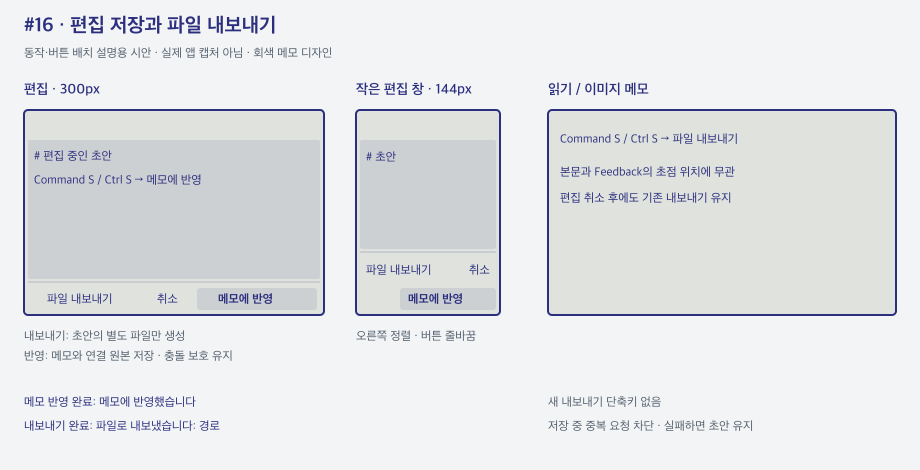
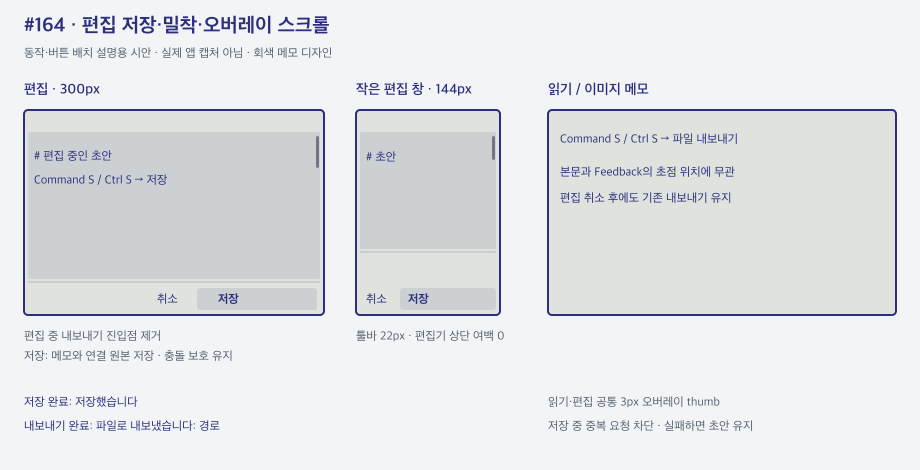
편집 저장 동작과 밀착 배치 및 오버레이 스크롤 통일

diff --git a/ui/overlay-scrollbar.js b/ui/overlay-scrollbar.js
@@ -9,9 +9,11 @@ export function scrollGeometry(view, total, offset) {
 export function installOverlayScrollbar(doc = document) {
   const viewport = doc.getElementById('viewport');
   const bar = doc.getElementById('memo-scrollbar');
+  const editor = doc.getElementById('markdown');
+  const scrollTarget = () => doc.body.classList.contains('editing') && editor ? editor : viewport;
   if (!viewport || !bar) return;
   let geometry, timer, frame, drag;
-  const enabled = () => !['editing', 'image-note', 'folded', 'toolbar-collapsed'].some(name => doc.body.classList.contains(name));
+  const enabled = () => !['image-note', 'folded', 'toolbar-collapsed'].some(name => doc.body.classList.contains(name));
   function reveal() {
     bar.classList.add('scroll-visible');
     clearTimeout(timer);
@@ -19,37 +21,48 @@ export function installOverlayScrollbar(doc = document) {
   }
   function update() {
     frame = null;
-    geometry = scrollGeometry(viewport.clientHeight, viewport.scrollHeight, viewport.scrollTop);
+    const target = scrollTarget();
+    if (drag && (drag.target !== target || !enabled())) finish();
+    geometry = scrollGeometry(target.clientHeight, target.scrollHeight, target.scrollTop);
     const wasHidden = bar.hidden;
-    bar.hidden = !enabled() || geometry.range <= 1 || viewport.clientHeight < 8;
-    bar.style.top = `${viewport.offsetTop + 2}px`;
-    bar.style.height = `${Math.max(0, viewport.clientHeight - 4)}px`;
+    bar.hidden = !enabled() || geometry.range <= 1 || target.clientHeight < 8;
+    bar.style.top = `${viewport.offsetTop + target.getBoundingClientRect().top - viewport.getBoundingClientRect().top + 2}px`;
+    bar.style.height = `${Math.max(0, target.clientHeight - 4)}px`;
     bar.style.setProperty('--thumb-size', `${geometry.size}px`);
     bar.style.setProperty('--thumb-top', `${geometry.top}px`);
     bar.setAttribute('aria-valuemax', String(Math.round(geometry.range)));
-    bar.setAttribute('aria-valuenow', String(Math.round(viewport.scrollTop)));
+    bar.setAttribute('aria-valuenow', String(Math.round(target.scrollTop)));
+    bar.setAttribute('aria-controls', target.id);
+    bar.setAttribute('aria-label', target === editor ? '편집기 세로 스크롤' : '메모 세로 스크롤');
     if (wasHidden && !bar.hidden) reveal();
   }
   function schedule() { if (frame == null) frame = requestAnimationFrame(update); }
-  viewport.addEventListener('scroll', () => { schedule(); reveal(); }, { passive: true });
+  for (const target of [viewport, editor].filter(Boolean)) {
+    target.addEventListener('scroll', () => { schedule(); reveal(); }, { passive: true });
+    target.addEventListener('input', schedule);
+  }
+  doc.addEventListener('selectionchange', schedule);
   // mousedown must not bubble into the application's native note-drag handler.
   bar.addEventListener('mousedown', event => event.stopPropagation());
   bar.addEventListener('pointerdown', event => {
     if (event.button !== 0) return;
     event.preventDefault(); event.stopPropagation();
     update();
+    const target = scrollTarget();
+    if (bar.hidden) return;
     const local = event.clientY - bar.getBoundingClientRect().top;
     if (local < geometry.top || local > geometry.top + geometry.size) {
-      viewport.scrollTop = Math.max(0, Math.min(geometry.range, (local - geometry.size / 2) / (geometry.travel || 1) * geometry.range));
+      target.scrollTop = Math.max(0, Math.min(geometry.range, (local - geometry.size / 2) / (geometry.travel || 1) * geometry.range));
     }
-    drag = { y: event.clientY, offset: viewport.scrollTop, range: geometry.range, travel: geometry.travel };
+    drag = { target, y: event.clientY, offset: target.scrollTop, range: geometry.range, travel: geometry.travel };
     bar.setPointerCapture(event.pointerId);
     bar.classList.add('scroll-dragging');
     reveal();
   });
   bar.addEventListener('pointermove', event => {
     if (!drag) return;
-    viewport.scrollTop = drag.offset + (event.clientY - drag.y) * drag.range / (drag.travel || 1);
+    if (drag.target !== scrollTarget()) { finish(); return; }
+    drag.target.scrollTop = drag.offset + (event.clientY - drag.y) * drag.range / (drag.travel || 1);
   });
   function finish() { drag = null; bar.classList.remove('scroll-dragging'); reveal(); }
   bar.addEventListener('lostpointercapture', finish);
@@ -57,20 +70,24 @@ export function installOverlayScrollbar(doc = document) {
   bar.addEventListener('pointercancel', finish);
   bar.addEventListener('keydown', event => {
     if (event.altKey || event.ctrlKey || event.metaKey || event.shiftKey) return;
-    const page = viewport.clientHeight * .9;
-    const destinations = { ArrowDown: viewport.scrollTop + 40, ArrowUp: viewport.scrollTop - 40, PageDown: viewport.scrollTop + page, PageUp: viewport.scrollTop - page, Home: 0, End: viewport.scrollHeight };
+    const target = scrollTarget();
+    const page = target.clientHeight * .9;
+    const destinations = { ArrowDown: target.scrollTop + 40, ArrowUp: target.scrollTop - 40, PageDown: target.scrollTop + page, PageUp: target.scrollTop - page, Home: 0, End: target.scrollHeight };
     if (!(event.key in destinations)) return;
     event.preventDefault(); event.stopPropagation();
-    viewport.scrollTop = destinations[event.key]; reveal();
+    target.scrollTop = destinations[event.key]; reveal();
   });
   bar.addEventListener('wheel', event => {
     // Wheel input over the overlay still belongs to the native scroll container.
     if (event.ctrlKey) return;
-    const unit = event.deltaMode === 1 ? 16 : event.deltaMode === 2 ? viewport.clientHeight : 1;
-    viewport.scrollTop += event.deltaY * unit;
+    const target = scrollTarget();
+    const unit = event.deltaMode === 1 ? 16 : event.deltaMode === 2 ? target.clientHeight : 1;
+    target.scrollTop += event.deltaY * unit;
     event.preventDefault();
   }, { passive: false });
-  new ResizeObserver(schedule).observe(viewport);
+  const resize = new ResizeObserver(schedule);
+  resize.observe(viewport);
+  if (editor) resize.observe(editor);
   new MutationObserver(schedule).observe(doc.getElementById('content'), { childList: true, subtree: true, characterData: true });
   new MutationObserver(schedule).observe(doc.body, { attributes: true, attributeFilter: ['class'] });
   new MutationObserver(schedule).observe(doc.documentElement, { attributes: true, attributeFilter: ['style'] });

diff --git a/ui/app.js b/ui/app.js
@@ -88,6 +88,7 @@ function endEditing(flow) {
   contentAction();
   editing = false;
   document.body.classList.toggle('editing', false);
+  $('export').hidden = false;
   $('editor').hidden = true;
   $('content').hidden = false;
   $('copy').disabled = false;
@@ -108,6 +109,7 @@ function beginEditing() {
   editRevision = latestNote.revision;
   $('markdown').value = latestNote.markdown;
   $('content').hidden = true;
+  $('export').hidden = true;
   $('editor').hidden = false;
   $('copy').disabled = true;
   $('edit').disabled = true;
@@ -135,7 +137,7 @@ async function save() {
       displayedHtml = $('content').innerHTML;
       revision = latestNote.revision;
       endEditing(flow);
-      notify('메모에 반영했습니다');
+      notify('저장했습니다');
       flow.frame?.();
     });
   } catch (error) { failure(error); }
@@ -163,7 +165,7 @@ function failure(error) { notify(String(error), 'error', editing); }
 async function publishFeedback() {
   if (!memoVisible) return;
   if (publishing) { publishAgain = true; return; }
-  const view = feedbackView({ editing, saving, exporting, acknowledging, highlightRevision, notice, sourcePath: latestNote?.source_path, color: latestNote?.color });
+  const view = feedbackView({ editing, saving, exporting, acknowledging, highlightRevision, notice, color: latestNote?.color });
   const signature = JSON.stringify({ folded, view });
   if (signature === feedbackSignature) return;
   publishing = true;
@@ -172,13 +174,13 @@ async function publishFeedback() {
   finally { publishing = false; if (publishAgain) { publishAgain = false; publishFeedback(); } }
 }
 async function exportNote() {
-  if (!latestNote || exporting || saving) return;
+  if (!latestNote || editing || exporting || saving) return;
   contentAction();
   exporting = true;
   publishFeedback();
   $('export').disabled = true;
   try {
-    const path = await invoke('export_note', { markdown: editing ? $('markdown').value : null });
+    const path = await invoke('export_note', { markdown: null });
     if (path) {
       notify(`파일로 내보냈습니다: ${path}`);
     }

diff --git a/ui/overlay-scrollbar.css b/ui/overlay-scrollbar.css
@@ -1,4 +1,4 @@
-/* Text reading surface only: no dedicated scrollbar column or separator strip. */
+/* Text surfaces: no dedicated scrollbar column or separator strip. */
 body:not(.image-note):not(.editing):not(.toolbar-collapsed) #controls { flex-basis: 22px; height: 22px; }
 body:not(.image-note):not(.editing):not(.folded) #viewport { padding-top: 0; scrollbar-width: none; }
 body:not(.image-note):not(.editing):not(.folded) #viewport::-webkit-scrollbar { width: 0; height: 0; }
@@ -24,4 +24,13 @@ body:not(.image-note):not(.editing):not(.folded) #viewport::-webkit-scrollbar { 
   #memo-scrollbar { display: none; }
   body:not(.image-note):not(.editing):not(.folded) #viewport { scrollbar-width: auto; }
   body:not(.image-note):not(.editing):not(.folded) #viewport::-webkit-scrollbar { width: auto; height: auto; }
+}
+
+/* The textarea keeps native input/caret scrolling; only its scrollbar is replaced. */
+body.editing #markdown { scrollbar-width: none; }
+body.editing #markdown::-webkit-scrollbar { width: 0; height: 0; }
+body.editing:has(#markdown:focus-visible) #memo-scrollbar { opacity: 1; }
+@media (forced-colors: active) {
+  body.editing #markdown { scrollbar-width: auto; }
+  body.editing #markdown::-webkit-scrollbar { width: auto; height: auto; }
 }

diff --git a/ui/feedback.js b/ui/feedback.js
@@ -33,7 +33,7 @@ async function refresh() {
           button.addEventListener('click', () => invoke('feedback_action', { action: item.id, revision: renderedRevision }).catch(report));
           actions.appendChild(button);
         }
-        button.title = item.id === 'save' ? `메모에 반영 · ${isMac ? 'Command S' : 'Ctrl S'}` : item.label;
+        button.title = item.id === 'save' ? `저장 · ${isMac ? 'Command S' : 'Ctrl S'}` : item.label;
         button.setAttribute('aria-label', button.title);
         button.textContent = item.label; button.disabled = item.disabled; button.classList.toggle('primary', !!item.primary);
       }

diff --git a/ui/style.css b/ui/style.css
@@ -178,3 +178,7 @@ body.toolbar-collapsed #controls { align-items: flex-start; }
 #controls button:is(:hover, [data-pointer-over]):not(:disabled) {
   background: color-mix(in srgb, var(--foreground) 16%, var(--background));
 }
+
+/* Editing shares the text reading row's compact edge; image chrome stays 30px. */
+body.editing:not(.image-note):not(.toolbar-collapsed) #controls { flex-basis: 22px; height: 22px; }
+body.editing:not(.image-note):not(.folded) #viewport { padding-top: 0; }

diff --git a/docs/verification/issue164-editor-save-layout.md b/docs/verification/issue164-editor-save-layout.md
@@ -1,0 +1,57 @@
+# #164 편집 저장·툴바 여백 검증
+
+2026-11-14 (Asia/Seoul). [이슈 #164](https://github.com/egoing/agent-gibbon/issues/164) · [Draft PR #165](https://github.com/egoing/agent-gibbon/pull/165).
+
+## 변경과 출처
+
+- root `/Users/egoinglee/.codex/worktrees/21c1/agent-gibbon`, branch `codex/editor-save-layout`, 기준 main `53ab3a7`, 계획 커밋 `d685c77` 위의 미커밋 구현.
+- `npm run dev:info`: instance `dev-04a8bd2447daf04ae0f34710`, binary `/Users/egoinglee/.codex/worktrees/21c1/agent-gibbon/src-tauri/target/debug/agent-gibbon`.
+- Node 24.21.0, Rust 1.91.1, macOS arm64. #159의 편집 높이 변경은 포함하지 않는다.
+
+Feedback은 취소·저장 두 버튼으로 바꾸고 저장 중/완료 문구도 통일했다. 편집 중 상단 내보내기를 hidden 처리하며 exportNote 진입에서 편집 상태를 확인해 오래된 Feedback 요청까지 무시한다. 읽기·이미지 export는 기존 null markdown 경로를 유지한다.
+
+녹색 표시 여백은 공통 30px 툴바 행의 버튼 아래 8px와 viewport 상단 패딩 3px다. 편집 상태에서만 22px 행·상단 패딩 0으로 변경한다. 버튼 크기·가장자리·내부 입력 패딩과 native 드래그 처리 코드는 유지한다.
+
+## 실행 결과
+
+- `npm run test:ui`: 196개 통과. 저장 단축키, revision 충돌, 읽기/이미지 내보내기, stale Feedback 및 숨긴 toolbar 내보내기 방어, 편집 툴바 빈 공간 드래그를 포함한다.
+- `PLAYWRIGHT_MODULE=/tmp/gibbon-playwright/node_modules/playwright/index.mjs node scripts/editor-save-smoke.mjs`: Chromium 158.0.8127.18 통과. Feedback 144/300px의 두 버튼·Tab·접근성 이름·단축키·오류 후 focus, 편집 144/300/600px의 toolbar 22px 및 textarea top과 row bottom 간격 0px, 이미지 행 30px 유지 확인. IPC mock 검사다. 캡처 `/tmp/gibbon16-browser/editor-{144,300,600}.png`.
+- `cargo test --manifest-path src-tauri/Cargo.toml`: 222개 통과.
+- `npm run dev:build`, `cargo fmt --manifest-path src-tauri/Cargo.toml -- --check`, `git diff --check` 통과.
+- SVG를 `rsvg-convert`로 PNG 렌더링하고 시안 및 브라우저 캡처를 육안 확인했다.
+
+## 실제 앱 확인
+
+팀장 GUI 슬롯 승인 후 전용 CLI로 `issue164-21c1`과 `/tmp/gibbon164-note.md`만 생성했다. inspect의 ok·instance·메모 ID·고유 본문을 대조했다. 실제 프로세스 PID 99402의 정확한 binary 경로를 확인하고 AX/CG에서 native title `Agent Gibbon [DEV codex/editor-save-layout · 04a8bd24] — issue164-21c1`, 본문 window 71413·Feedback 71421을 특정했다.
+
+Orca는 runtime metadata 부재로 사용 불가여서 저장소의 PID-bound AX helper `scripts/design-system-ax.swift`를 사용했다. 읽기 AX tree는 숨긴 요소를 포함하므로 내보내기 제거의 시각 판단에는 사용하지 않았다.
+
+1. AX 메모 편집 버튼 실행 후 [실제 창 캡처](assets/issue164-editor-native.png)를 `screencapture -x -l 71413`으로 얻고 육안 확인했다. 본문+연결 Feedback이 포함되며 내보내기 아이콘 없음, 밀착 편집기, 취소·저장 두 버튼을 확인했다.
+2. AX draft로 `issue164-21c1 저장된 본문`을 입력하고 Feedback `저장 · Command S` 버튼 실행. inspect revision 1→2, 저장했습니다 안내와 연결 파일의 동일 본문 확인.
+3. 다시 편집하여 `issue164 충돌 초안` 입력 후 외부에서 전용 원본 파일 변경. 같은 저장 버튼 실행 시 원본 외부 변경 오류, 메모 revision 2 유지·외부 파일 보존 및 AX textarea의 초안 유지 확인.
+4. 취소 후 개발 CLI close로 검증 메모·Feedback 숨김을 확인하고 정확한 PID 99402만 종료했다. 팀장에게 GUI 슬롯 해제를 보고했다. 다른 인스턴스와 사용자 메모는 변경하지 않았다. 입력은 AX만 사용했고 포인터·전역 키·시스템 볼륨은 변경하지 않았다.
+
+## 한계
+
+실제 키보드 Cmd/Ctrl+S·실제 toolbar drag·읽기/이미지 native export 완성은 이번에 재실행하지 않았다. 해당 동작의 자동 회귀검사와 실제 저장 버튼·원본 충돌 검증을 구분한다. Intel·Windows GUI, 전체 플랫폼 CI·설치·배포는 미실행이다. 최종 구현 커밋·push·병합은 승인 전이며 Draft PR에는 계획 커밋만 있다.
+
+Conf 5: macOS 화면·저장 버튼·원본 충돌 / Conf 3~4: 나머지 자동 검사. Risk Low: 국소 UI·진입 제한이며 저장 백엔드는 변경하지 않음.
+
+## 편집 스크롤바 후속
+
+사용자 후속 요청에 따라 같은 작업에서 편집 textarea의 스크롤바를 읽기 overlay로 통일했다. 공통 컨트롤의 대상만 바꾸며 textarea 기본 입력·커서·선택·scrollTop을 유지한다. input·selectionchange·resize를 반영하고 전환/접힘 시 기존 드래그를 종료한다. 접근성 제어 대상·명칭도 textarea/viewport에 맞춰 바뀐다. 네이티브 scrollbar 열을 제거하고 forced-colors에서는 복귀한다.
+
+- 위 Chromium 스크립트를 확장해 144/300/600px 각각 긴 글 입력, Control+End 커서 끝 이동·추가 입력과 selectionEnd, scrollbar Home·thumb drag로 textarea만 이동, 짧은 글에서 숨김, 읽기로 전환 후 viewport End 이동, forced-colors의 scrollbar 숨김·textarea native 복귀를 검사했다. 출력 `/tmp/gibbon164-scroll`, 실제 pointer drag는 Chromium에서 실행했다.
+- UI 196개 및 수정 모듈 syntax 검사 통과. Rust 코드는 변경하지 않았으며 앞선 222개 결과는 후속 JS 이전 결과다. 개발 빌드 재실행 통과(6.06초). 최종 드래그 종료 가드 보강은 이후 브라우저 재검증으로 확인했다.
+- 실제 앱을 다시 시작한 PID 5660의 정확한 binary 경로와 `dev-04a8bd2447daf04ae0f34710` inspect를 재대조했다. 전용 파일 `/tmp/gibbon164-scroll-note.md`, 메모 `issue164-scroll-21c1`, 고유 본문 `issue164-21c1 편집 스크롤 검증`, native title `Agent Gibbon [DEV codex/editor-save-layout · 04a8bd24] — issue164-scroll-21c1`과 CG window 71429를 확인했다.
+- PID-bound AX helper로 편집 진입, AX의 `편집기 세로 스크롤` 노출을 확인했다. [실제 편집 화면](assets/issue164-editor-scroll-native.png)은 window 71429의 screencapture이며 넓은 native scrollbar 열이 제거된 상태를 육안 확인했다. 비활성 fade 상태여서 thumb는 보이지 않는 캡처다. thumb의 표시·드래그와 입력/커서 추적은 Chromium 증거로 구분한다.
+- AX로 짧은 글을 넣고 취소한 뒤 전용 CLI close 및 이번 PID 5660만 종료하고 GUI 슬롯을 반납했다. 실제 물리 입력·native thumb 드래그·IME 조합 입력은 미실행이다. Windows/Intel GUI 및 전체 플랫폼 CI도 미실행이다.
+- SVG/PNG의 편집기 thumb 시안을 갱신·렌더링·육안 확인했다. 최종 제품 변경은 계속 미커밋으로 보존한다.
+
+후속 스크롤 동작 Conf 4(Chromium), 실제 native 화면 Conf 5 / Risk Low.
+
+## 기본 설명 제거 후속
+
+사용자 요청으로 편집 시 `원본 파일에 저장` 기본 안내를 제거했다. 연결 파일 유무에 관계없이 기본 Feedback은 취소·저장 버튼만 있으며 실제 오류·저장 결과는 유지한다. 최종 개발 빌드 통과(5.25초), UI 197개 통과(연결 메모 기본 message 빈 값 및 실제 notice 유지 검사 추가). 시안은 이미 버튼만 표시하므로 추가 형상 변경은 없고 디자인 시스템에 명시했다.
+
+위 native 캡처 두 개는 이 안내 제거 **이전**의 실행 증거다. 안내 제거 후 native 화면을 다시 캡처한 것으로 간주하지 않는다. 이번 최종 기본 안내는 UI 검사와 source 검토로 확인했다.

diff --git a/.agents/skills/agent-gibbon/SKILL.md b/.agents/skills/agent-gibbon/SKILL.md
@@ -81,7 +81,7 @@ MD
 
 ## 파일 연결과 저장
 
-- `--file 경로`는 원본 Markdown 파일을 연결한다. 설치 앱에는 접근 가능한 파일의 절대 경로를 전달한다. 연필 버튼의 메모에 반영을 누르면 메모와 연결한 파일을 함께 갱신한다.
+- `--file 경로`는 원본 Markdown 파일을 연결한다. 설치 앱에는 접근 가능한 파일의 절대 경로를 전달한다. 연필 버튼의 저장을 누르면 메모와 연결한 파일을 함께 갱신한다.
 - `--markdown` 또는 `--file -`로 본문을 교체하면 기존 원본 연결을 해제한다. 제목·상태·색상만 변경하면 연결을 유지한다. `--markdown`과 `--file`은 함께 사용하지 않는다.
 - 외부 파일 변경을 자동 감시하지 않는다. `update --id ID --file 경로`로 다시 읽는다. 원본 파일을 다른 도구와 동시에 편집하지 않는다.
 - 사용자 편집 중 내용이 갱신되거나 원본 파일이 바뀌면 저장 충돌이 발생할 수 있다. 초안을 보존하고 최신 내용을 확인한 뒤 다시 편집한다.
@@ -92,7 +92,7 @@ MD
 
 - 메모 본문을 드래그해 이동하고 가장자리로 크기를 조절한다. 직접 기하학 조작은 자동 배치에서 제외하며 후속 내용 갱신·편집 등은 다시 포함한다. 내용 갱신만으로 현재 위치·크기를 바꾸지는 않는다.
 - 작은 메모에서 Toolbar 기능이 모두 들어가지 않으면 이전 도구·다음 도구 버튼으로 넘긴다. 키보드 Tab·Shift+Tab으로 이동한 기능은 자동으로 표시된다.
-- 글자 크기 버튼으로 크기를 바꾸고, 연필로 원문을 편집한다. 편집 반영은 메모에 반영 버튼 또는 편집 중 ⌘S/Ctrl+S, 파일 내보내기는 읽기·이미지 메모의 ⌘S/Ctrl+S 또는 툴바 파일 내보내기 버튼(편집 중에는 Action Bar의 파일 내보내기), 편집 취소는 Escape이며 복사 버튼으로 본문을 복사한다.
+- 글자 크기 버튼으로 크기를 바꾸고, 연필로 원문을 편집한다. 편집 반영은 저장 버튼 또는 편집 중 ⌘S/Ctrl+S, 파일 내보내기는 읽기·이미지 메모의 ⌘S/Ctrl+S 또는 읽기·이미지 메모의 툴바 파일 내보내기 버튼(편집 중 내보내기는 제공하지 않음), 편집 취소는 Escape이며 복사 버튼으로 본문을 복사한다.
 - 좌우 화살표 또는 Option + 포인터 접촉으로 화면 반대편에 옮긴다. Control + 포인터 접촉으로 접거나 펼친다. 전체 창 접어두기/복원은 macOS에서 Control + Option + Command, Windows에서 Ctrl + Alt + Win 세 키만 누르고 모두 놓으면 실행한다. 일반 키·클릭이 섞이면 실행하지 않는다.
 - 메뉴 막대의 개별 메모를 선택해 숨긴 메모를 복원할 수 있다.
 - 메뉴 막대에서 숨긴 메모를 열면 자동 배치 대상 전체를 오른쪽 하단부터 위·왼쪽 열 순서로 재계산합니다. 제외된 창은 장애물로 보존합니다. 이미 보이는 메모의 다시 열기는 전체 배치를 바꾸지 않습니다.

diff --git a/README.md b/README.md
@@ -75,7 +75,7 @@
 
 - 글자 크기 버튼을 누르면 **12 → 14 → 16 → 18 → 12px**로 순환합니다. 제목·코드·표도 비례해서 커집니다. 크기는 창별로 유지되며 CLI 갱신이나 숨기기로 초기화되지 않습니다.
 - **툴바 저장 버튼 / ⌘S / Ctrl+S**로 저장 위치와 파일명을 선택합니다. 텍스트 메모는 Markdown(`.md`), 캡처 메모는 원본 PNG(`.png`)로 내보냅니다. 편집 중에는 현재 초안을 내보내며 메모와 원본 파일 연결은 바꾸지 않습니다. 취소하면 파일을 만들지 않습니다.
-- 연필 버튼으로 Markdown 원문을 편집하고 **메모에 반영**으로 반영합니다. **취소 / Escape**는 편집을 취소합니다. 편집 중에는 텍스트 선택과 입력이 가능하며, 창을 숨겨도 저장하지 않은 초안은 유지됩니다.
+- 연필 버튼으로 Markdown 원문을 편집하고 **저장**으로 저장합니다. **취소 / Escape**는 편집을 취소합니다. 편집 중에는 텍스트 선택과 입력이 가능하며, 창을 숨겨도 저장하지 않은 초안은 유지됩니다.
 - `--file 경로`로 연 메모는 저장할 때 원본 파일도 갱신합니다. `--markdown`이나 `--file -`로 입력한 메모는 앱 안에서만 변경합니다. 저장 대상은 편집 화면에 표시됩니다.
 - 제목·상태·색상만 CLI로 갱신하면 파일 연결을 유지합니다. `--markdown`이나 표준입력으로 본문을 교체하면 파일 연결을 해제하고, 다른 `--file`로 교체하면 새 파일에 연결합니다. 원본 파일을 자동 감시하지는 않습니다.
 - 편집 시작 후 CLI가 메모를 갱신했거나 원본 파일 내용이 달라졌다면 저장을 거부하고 초안을 유지합니다. 필요한 내용을 복사한 뒤 취소하고 최신 내용으로 다시 편집하세요. 파일이 외부에서 바뀐 경우 CLI의 `update --id ID --file 경로`로 다시 읽습니다.

diff --git a/docs/plans/editor-save-layout.md b/docs/plans/editor-save-layout.md
@@ -2,10 +2,18 @@
 
 #16 병합 후속 작업이며 #159의 편집 진입 높이와 분리한다.
 
-- [ ] Feedback의 메모에 반영을 저장으로 변경하고 편집 중 내보내기를 제거한다.
-- [ ] 상단 툴바 내보내기도 편집 중 숨기고 오래된 Feedback 요청을 방어한다.
-- [ ] 공통 30px 툴바 행과 viewport 상단 3px 패딩을 편집 상태에서만 밀착한다.
-- [ ] 읽기·이미지 내보내기, 저장 단축키와 충돌 보호, 툴바 드래그를 회귀 검증한다.
-- [ ] 디자인 시스템과 SVG/PNG, 실행 증거를 갱신한다.
+- [x] Feedback의 메모에 반영을 저장으로 변경하고 편집 중 내보내기를 제거한다.
+- [x] 상단 툴바 내보내기도 편집 중 숨기고 오래된 Feedback 요청을 방어한다.
+- [x] 공통 30px 툴바 행과 viewport 상단 3px 패딩을 편집 상태에서만 밀착한다.
+- [x] 읽기·이미지 내보내기, 저장 단축키와 충돌 보호, 툴바 드래그를 회귀 검증한다.
+- [x] 디자인 시스템과 SVG/PNG, 실행 증거를 갱신한다.
 
 최종 제품 커밋과 병합 전 검증 결과를 보고한다.
+
+## 사용자 후속: 편집 스크롤
+
+- [x] 읽기 overlay scrollbar를 textarea에도 재사용한다.
+- [x] Chromium 입력·커서 끝 추적·스크롤/드래그·짧은 글·편집 전환·forced-colors를 확인한다.
+- [x] 실제 앱 화면과 출처 확인, 시안·디자인 기준·검증 기록을 갱신한다.
+- 실제 native thumb drag/키 입력·IME는 미실행이며 Chromium 검사와 구분한다.
+- [x] 후속 요청의 `원본 파일에 저장` 기본 설명을 제거하고 실제 오류·저장 결과 안내 유지 검사를 통과한다.
